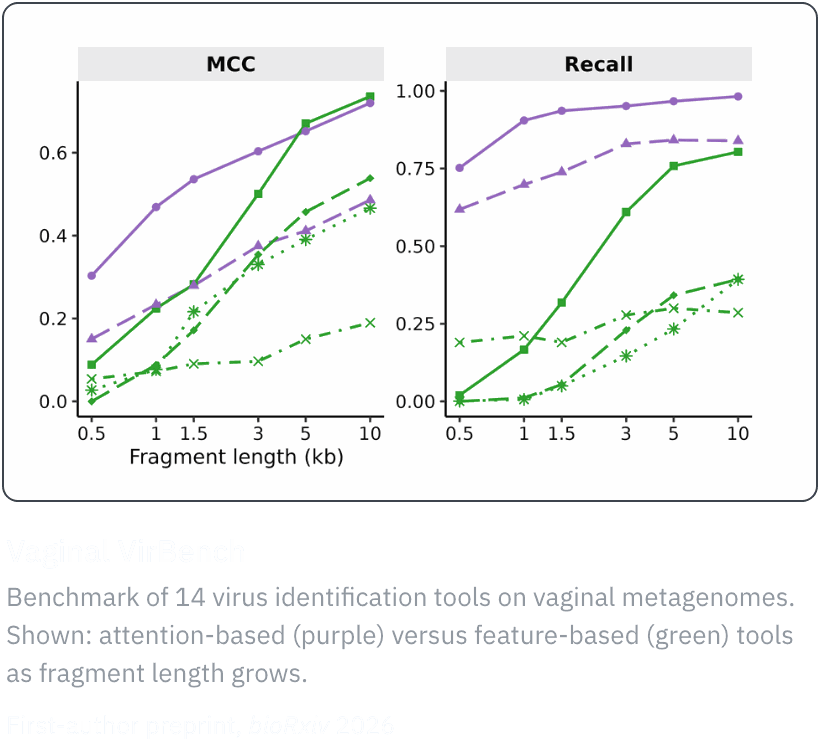
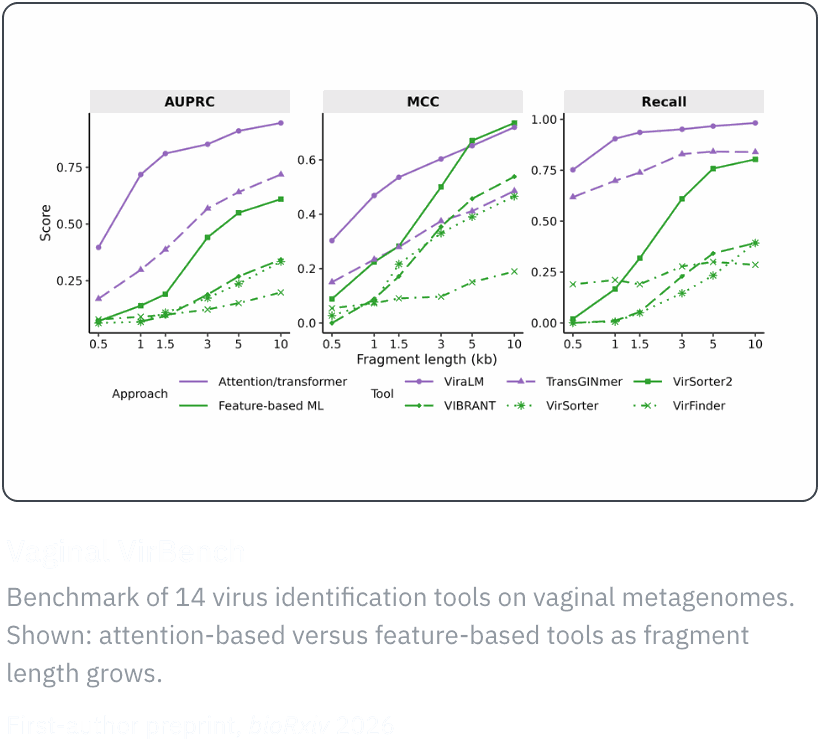
Revert VirBench plate to full Fig 3

diff --git a/assets/build.py b/assets/build.py
@@ -30,7 +30,7 @@ PLATES = [
     dict(slug="vaginal-virbench", figure="vaginal-virbench.png",
          title="Vaginal VirBench",
          text="Benchmark of 14 virus identification tools on vaginal metagenomes. "
-              "Shown: attention-based (purple) versus feature-based (green) tools as fragment length grows.",
+              "Shown: attention-based versus feature-based tools as fragment length grows.",
          venue="First-author preprint, *bioRxiv* 2026"),
     dict(slug="mitch", figure="mitch.png",
          title="MiTCH",

diff --git a/README.md b/README.md
@@ -5,7 +5,7 @@
 
 ### Research
 
-<a href="https://github.com/ruqse/vaginal_virbench"><picture><source media="(prefers-color-scheme: dark)" srcset="assets/plates/vaginal-virbench-dark.png?v=2"><img alt="Vaginal VirBench: benchmark of 14 virus identification tools on vaginal metagenomes, with line plots of MCC and recall for attention-based and feature-based tools across fragment lengths from 0.5 to 10 kb. First-author preprint, bioRxiv 2026." src="assets/plates/vaginal-virbench-light.png?v=2" width="49%"></picture></a> <a href="https://github.com/ruqse/mitch_manuscript"><picture><source media="(prefers-color-scheme: dark)" srcset="assets/plates/mitch-dark.png?v=2"><img alt="MiTCH: multi-omics of bacterial vaginosis in 111 women, with a circular plot of taxon and metabolite correlations. Co-first author, npj Women’s Health 2026." src="assets/plates/mitch-light.png?v=2" width="49%"></picture></a>
+<a href="https://github.com/ruqse/vaginal_virbench"><picture><source media="(prefers-color-scheme: dark)" srcset="assets/plates/vaginal-virbench-dark.png?v=3"><img alt="Vaginal VirBench: benchmark of 14 virus identification tools on vaginal metagenomes, with line plots of AUPRC, MCC and recall for six tools across fragment lengths from 0.5 to 10 kb. First-author preprint, bioRxiv 2026." src="assets/plates/vaginal-virbench-light.png?v=3" width="49%"></picture></a> <a href="https://github.com/ruqse/mitch_manuscript"><picture><source media="(prefers-color-scheme: dark)" srcset="assets/plates/mitch-dark.png?v=2"><img alt="MiTCH: multi-omics of bacterial vaginosis in 111 women, with a circular plot of taxon and metabolite correlations. Co-first author, npj Women’s Health 2026." src="assets/plates/mitch-light.png?v=2" width="49%"></picture></a>
 <a href="https://github.com/ruqse/pun-betatublin-BZ"><picture><source media="(prefers-color-scheme: dark)" srcset="assets/plates/parascaris-betatubulin-dark.png?v=2"><img alt="Parascaris β-tubulin: 243 haplotypes of seven β-tubulin genes from a resistant and a susceptible farm, with a bar chart of each gene’s dominant haplotype frequency on each farm. Submitted to PLOS ONE." src="assets/plates/parascaris-betatubulin-light.png?v=2" width="49%"></picture></a> <a href="https://github.com/ruqse/Parascaris-IVM-GeneNetwork"><picture><source media="(prefers-color-scheme: dark)" srcset="assets/plates/parascaris-networks-dark.png?v=2"><img alt="Parascaris gene networks: tissue-specific response to ivermectin, with a network where gegf-1 links 71 genes across four modules. First author, PLOS ONE 2024." src="assets/plates/parascaris-networks-light.png?v=2" width="49%"></picture></a>
 
 Papers: [Vaginal VirBench, *bioRxiv* 2026](https://doi.org/10.64898/2026.09.24.753817) · [MiTCH, *npj Women’s Health* 2026](https://doi.org/10.1038/s44294-026-00163-6) · [*Parascaris* gene networks, *PLOS ONE* 2024](https://doi.org/10.1371/journal.pone.0298039) · [PLAGUE, *bioRxiv* 2026](https://doi.org/10.64898/2026.07.10.737741)
